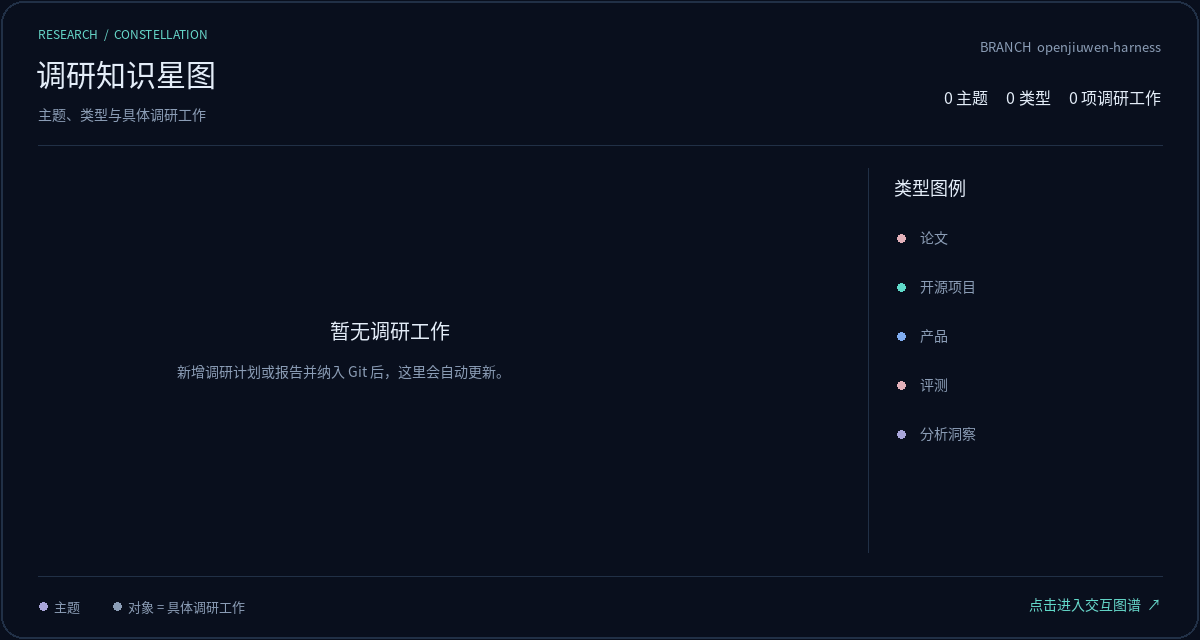
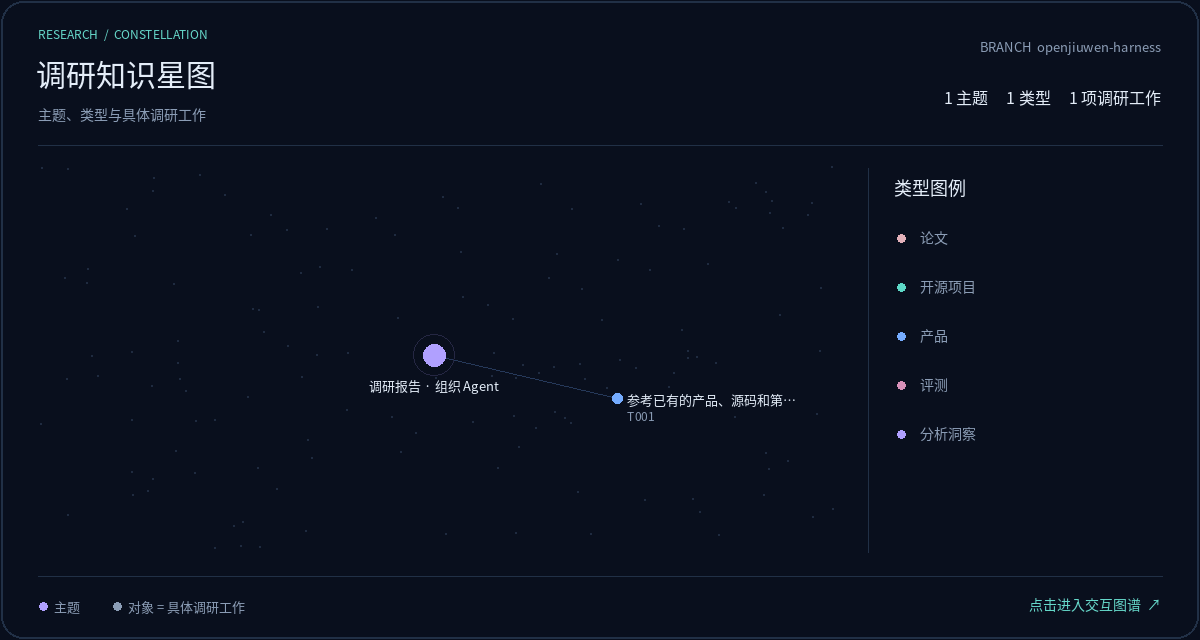
更新调研图谱与成果目录

Changed region(s): [[0.1542, 0.5, 0.4317, 0.625], [0.4933, 0.5938, 0.6475, 0.6562]]

diff --git a/docs/research-graph/graph-data.js b/docs/research-graph/graph-data.js
@@ -3,7 +3,7 @@ window.RESEARCH_GRAPH = {
   "schemaVersion": 2,
   "repository": "technologyHu/research",
   "branch": "openjiuwen-harness",
-  "fingerprint": "c8e72fada0b18844",
+  "fingerprint": "3daa73bb55431629",
   "types": {
     "paper": "论文",
     "open-source": "开源项目",
@@ -21,15 +21,97 @@ window.RESEARCH_GRAPH = {
     "unknown": "#9aaac6"
   },
   "stats": {
-    "themes": 0,
-    "types": 0,
-    "objects": 0,
-    "reports": 0
+    "themes": 1,
+    "types": 1,
+    "objects": 1,
+    "reports": 1
   },
-  "updatedAt": "",
-  "nodes": [],
-  "edges": [],
-  "reports": [],
-  "themeOverview": [],
+  "updatedAt": "2026-11-09",
+  "nodes": [
+    {
+      "id": "theme:research-reports/organization-agent",
+      "kind": "theme",
+      "type": "theme",
+      "theme": "research-reports/organization-agent",
+      "label": "调研报告 · 组织 Agent",
+      "status": "active",
+      "path": "research-reports/organization-agent/plan.md",
+      "revision": 18,
+      "updatedAt": "2026-11-09",
+      "color": "#b0a0ff",
+      "statusLabel": "进行中",
+      "url": "https://github.com/technologyHu/research/blob/openjiuwen-harness/research-reports/organization-agent/plan.md",
+      "x": 0.5,
+      "y": 0.5
+    },
+    {
+      "id": "work:research-reports/organization-agent:T001",
+      "kind": "object",
+      "type": "product",
+      "label": "参考已有的产品、源码和第三方资料。核对公开的持续集成（CI）案例用到哪些信息、给出什么结果、如何衡量效果，制定试点验收标准。",
+      "target": "product／Claude Tag",
+      "taskId": "T001",
+      "theme": "research-reports/organization-agent",
+      "path": "research-reports/organization-agent/plan.md",
+      "status": "done",
+      "priority": "P1",
+      "runId": "20261109t074836z-3b876ccb",
+      "updatedAt": "2026-11-09",
+      "color": "#75acff",
+      "statusLabel": "已完成",
+      "url": "https://github.com/technologyHu/research/blob/openjiuwen-harness/research-reports/organization-agent/plan.md",
+      "reportIds": [
+        "report:report-fd2531e6d5e24ef4817433ef6534fcf1"
+      ],
+      "pendingReportIds": [],
+      "sourceKind": "plan",
+      "x": 0.732214,
+      "y": 0.616947
+    }
+  ],
+  "edges": [
+    {
+      "source": "theme:research-reports/organization-agent",
+      "target": "work:research-reports/organization-agent:T001",
+      "relation": "includes",
+      "evidence": "research-reports/organization-agent/plan.md"
+    }
+  ],
+  "reports": [
+    {
+      "id": "report:report-fd2531e6d5e24ef4817433ef6534fcf1",
+      "label": "Claude Tag 产品调研：共享任务、组织身份与长期协作",
+      "path": "research-reports/organization-agent/product/claude-tag__20261109-154839/report.md",
+      "url": "https://github.com/technologyHu/research/blob/openjiuwen-harness/research-reports/organization-agent/product/claude-tag__20261109-154839/report.md",
+      "status": "review_complete",
+      "statusLabel": "局部复查完成",
+      "type": "product",
+      "updatedAt": "2026-11-09T15:48:39+08:00",
+      "createdAt": "2026-11-09T00:37:09+08:00",
+      "themeId": "organization-agent",
+      "themePath": [
+        "organization-agent"
+      ],
+      "associationStatus": "explicit",
+      "workIds": [
+        "work:research-reports/organization-agent:T001"
+      ]
+    }
+  ],
+  "themeOverview": [
+    {
+      "theme": "research-reports/organization-agent",
+      "title": "调研报告 · 组织 Agent",
+      "status": "active",
+      "statusLabel": "进行中",
+      "planPath": "research-reports/organization-agent/plan.md",
+      "reportIds": [
+        "report:report-fd2531e6d5e24ef4817433ef6534fcf1"
+      ],
+      "nextSteps": [
+        "复查 Claude Tag 是否公开核心源码，核对公开资料能确认的服务端实现。"
+      ]
+    }
+  ],
   "warnings": []
 };

diff --git a/README.md b/README.md
@@ -16,7 +16,7 @@
 
 [![动态调研图谱](docs/research-graph/preview.gif)](https://technologyhu.github.io/research/)
 
-**0 个调研主题 · 0 种类型 · 0 项调研工作**
+**1 个调研主题 · 1 种类型 · 1 项调研工作**
 
 [打开交互图谱](https://technologyhu.github.io/research/) · [本地页面](docs/research-graph/index.html) · [静态预览](docs/research-graph/preview.png) · [生成与维护说明](docs/research-graph-guide.md)
 
@@ -34,14 +34,14 @@
 
 | 类别 | 主题 | 状态 | 当前计划 | 更新日期 |
 | --- | --- | --- | --- | --- |
-| 调研 | 暂无调研计划 | — | — | — |
+| 调研 | 调研报告 · 组织 Agent | 进行中 | [查看计划](research-reports/organization-agent/plan.md) | 2026-11-09 |
 | 分析洞察 | 暂无分析洞察计划 | — | — | — |
 
 ## 调研报告总览
 
 | 主题 | 状态 | 计划 | 报告 | 下一步 |
 | --- | --- | --- | --- | --- |
-| 暂无调研主题 | — | 暂无计划 | 暂无报告 | 暂无下一步安排 |
+| 调研报告 · 组织 Agent | 进行中 | [调研计划](research-reports/organization-agent/plan.md) | [Claude Tag 产品调研：共享任务、组织身份与长期协作](research-reports/organization-agent/product/claude-tag__20261109-154839/report.md)（局部复查完成） · 2026-11-09 15:48:39 | 复查 Claude Tag 是否公开核心源码，核对公开资料能确认的服务端实现。 |
 
 ## 分析洞察报告总览
 
@@ -49,6 +49,6 @@
 | --- | --- | --- | --- | --- |
 | 暂无分析洞察主题 | — | 暂无计划 | 暂无报告 | 暂无下一步安排 |
 
-当前纳入总览：调研报告 0 份，分析洞察报告 0 份。暂无数据时显示空状态，不添加演示节点。
+当前纳入总览：调研报告 1 份，分析洞察报告 0 份。暂无数据时显示空状态，不添加演示节点。
 
 <!-- research-graph:end -->
